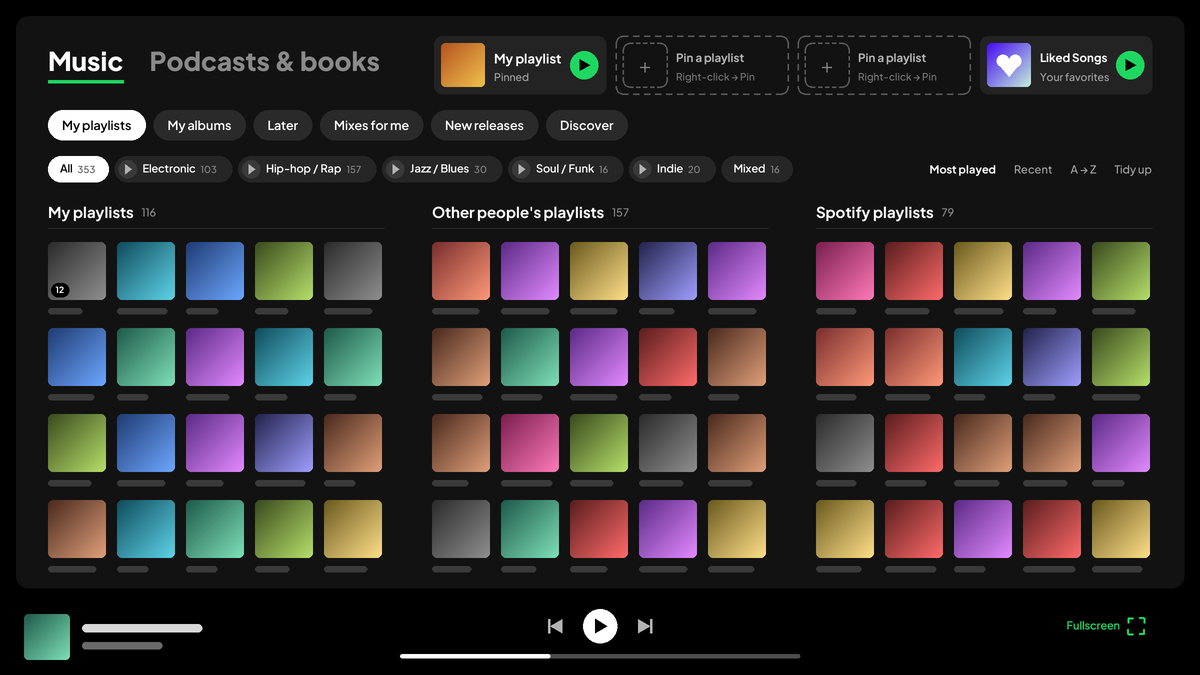
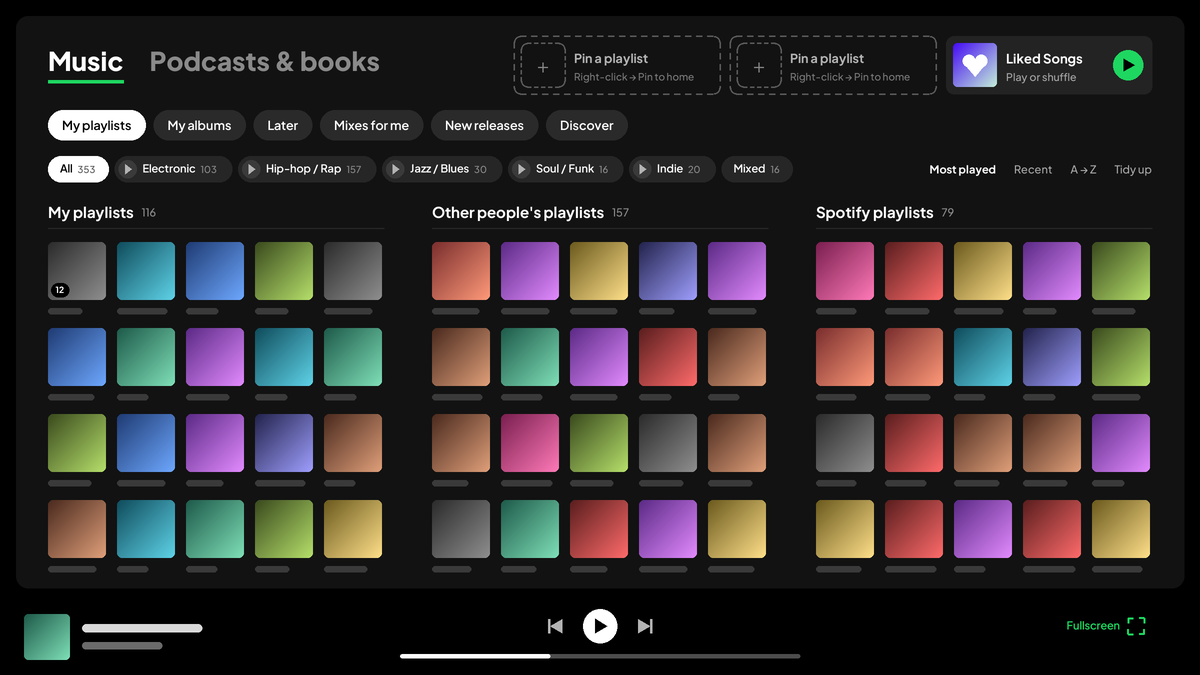
Épingles : 3 emplacements Titres likés compris (2 au choix)
L'onglet Musique a 3 emplacements en tout : Titres likés et 2 épingles
au choix. Une 3e épingle est refusée avec une notification. README et
aperçu (deux emplacements vides en pointillé, Titres likés) mis à jour.

Changed region(s): [[0.3392, 0.0622, 0.9558, 0.1556]]

diff --git a/spicetify/CustomApps/accueil/index.js b/spicetify/CustomApps/accueil/index.js
@@ -1379,7 +1379,8 @@ function PinHero({ item, reorder, drag }) {
     h("button", { className: "acc-round", title: tr("Lire"), onClick: (e) => { e.stopPropagation(); playPinned(item); } }, h(PlayIcon))));
 }
 
-const PIN_SLOTS = 3;
+// 3 emplacements en tout dans l'onglet Musique, Titres likés compris : 2 épingles au choix.
+const PIN_SLOTS = 2;
 
 // Emplacement libre : carte en pointillé qui explique comment épingler.
 function PinSlot() {
@@ -1392,7 +1393,7 @@ function PinSlot() {
 
 function PinnedHeroes({ main }) {
   const pinned = usePins();
-  // Musique : 3 emplacements au plus (Titres likés en plus) ; au-delà, seules les 3 premières.
+  // Musique : 2 épingles au plus à côté de Titres likés ; au-delà, seules les 2 premières.
   let kept = 0;
   const shown = (pinned || []).filter((i) => pinGroup(i) === main && (main !== "music" || i.type === "liked" || ++kept <= PIN_SLOTS));
   const [drag, setDrag] = useState(null); // { uri, target, side }
@@ -1413,7 +1414,7 @@ function PinnedHeroes({ main }) {
       setDrag(null);
     },
   };
-  // Musique : les places libres sur les 3 s'affichent en pointillé, pour montrer qu'on choisit ce qui va là.
+  // Musique : les places libres s'affichent en pointillé, pour montrer qu'on choisit ce qui va là.
   const free = main === "music" && pinned ? Math.max(0, PIN_SLOTS - shown.filter((i) => i.type !== "liked").length) : 0;
   const slots = Array.from({ length: free }, (_, k) => h(PinSlot, { key: "slot" + k }));
   const cards = shown.map((i) => (i.type === "liked" ? h(LikedHero, { key: i.uri, reorder, drag }) : h(PinHero, { key: i.uri, item: i, reorder, drag })));
@@ -1568,7 +1569,7 @@ header[data-testid="topbar"] { display: none !important; }
 .acc-slot-plus { width: 56px; height: 56px; flex: none; border-radius: 4px; display: grid; place-items: center; border: 1.5px dashed rgba(255,255,255,.22); font-size: 1.5rem; font-weight: 300; }
 .acc-slot .acc-liked-title { color: inherit; }
 .acc-pin-hint { display: flex; align-items: center; max-width: 320px; padding: 10px 14px; border: 1px dashed rgba(255,255,255,.2); border-radius: 8px; color: var(--acc-sub); font-size: .8125rem; }
-/* Une seule ligne, toujours : au plus 3 épingles + Titres likés, qui rétrécissent au besoin. */
+/* Une seule ligne, toujours : 3 cartes (2 épingles + Titres likés), qui rétrécissent au besoin. */
 .acc-heroes { display: flex; gap: 12px; flex-wrap: nowrap; justify-content: flex-end; flex: 1 1 auto; min-width: 0; }
 .acc-liked-art.is-season { background: linear-gradient(135deg, #b3541e, #f2c14e); overflow: hidden; }
 .acc-liked-art img { width: 100%; height: 100%; object-fit: cover; display: block; }

diff --git a/spicetify/Extensions/accueil-core.js b/spicetify/Extensions/accueil-core.js
@@ -21,7 +21,7 @@ const ACCUEIL_EN = {
   "Retirer de l'accueil": "Unpin from home",
   "Discographie complète": "Full discography",
   "Épinglé sur l'accueil": "Pinned to home",
-  "Accueil complet (3 épingles) : retire une épingle d'abord": "Home is full (3 pins): unpin one first",
+  "Accueil complet (3 emplacements, Titres likés compris) : retire une épingle d'abord": "Home is full (3 slots, Liked Songs included): unpin one first",
   "Ajouté à « Plus tard »": "Added to Later",
   "{n} éléments ajoutés à « Plus tard »": "{n} items added to Later",
   "Déjà dans « Plus tard »": "Already in Later",
@@ -401,9 +401,9 @@ function accueilT(fr, vars) {
     const list = readPins();
     if (list) writePins([current, ...list.filter((u) => u !== current && !previous.includes(u))]);
   }
-  // Onglet Musique : 3 emplacements au plus (Titres likés à part). Les épingles de podcasts (émissions,
-  // épisodes enregistrés) vont dans l'onglet Podcasts et ne comptent pas.
-  const PIN_SLOTS = 3;
+  // Onglet Musique : 3 emplacements, Titres likés compris, donc 2 épingles au choix. Les épingles de
+  // podcasts (émissions, épisodes enregistrés) vont dans l'onglet Podcasts et ne comptent pas.
+  const PIN_SLOTS = 2;
   async function pinUri(uri) {
     const list = readPins() || [];
     const podcast = (u) => /^spotify:(show|episode):/.test(u);
@@ -412,7 +412,7 @@ function accueilT(fr, vars) {
       try { episodes = (await Spicetify.Platform.LibraryAPI.getContents({ limit: 50 })).items.find((i) => i.type === "your-episodes")?.uri; } catch {}
       const music = list.filter((u) => u !== "accueil:liked" && u !== episodes && !podcast(u));
       if (music.length >= PIN_SLOTS) {
-        Spicetify.showNotification?.(accueilT("Accueil complet (3 épingles) : retire une épingle d'abord"), true);
+        Spicetify.showNotification?.(accueilT("Accueil complet (3 emplacements, Titres likés compris) : retire une épingle d'abord"), true);
         return;
       }
     }

diff --git a/README.fr.md b/README.fr.md
@@ -17,7 +17,7 @@ Pour **Spotify sur ordinateur, version téléchargée sur spotify.com** (pas cel
 - **Nombre d'écoutes** sur chaque playlist et chaque album, et tri « Plus écoutées ».
 - **Suggestions de rangement** (bouton « Ranger » de Mes playlists) : playlists dont les artistes relèvent surtout d'un autre dossier de style, playlists en vrac à la racine au style net, playlists pas écoutées depuis plus d'un an (quand Spotify connaît la date). Pour chacune : « Déplacer vers… » (ou « Archiver », dans un dossier `ARCHIVES`) et « Ignorer ». Rien ne bouge sans ton clic.
 - **Mes albums par date de sortie** : tris « Sortie ↓ » et « Sortie ↑ ».
-- **Tes 3 playlists préférées épinglées en haut** : des emplacements vides en pointillé montrent où elles vont. Clic droit sur une playlist, un album, un artiste, une émission ou un dossier → « Épingler sur l'accueil » (3 emplacements, toujours sur une ligne, à côté de Titres likés). Glisse une carte, Titres likés compris, pour changer l'ordre. Les titres likés sont toujours là, avec lecture ou aléatoire.
+- **3 emplacements en haut : Titres likés + 2 playlists au choix** : des emplacements vides en pointillé montrent où elles vont. Clic droit sur une playlist, un album, un artiste, une émission ou un dossier → « Épingler sur l'accueil » (3 emplacements, Titres likés compris, toujours sur une ligne). Glisse une carte, Titres likés compris, pour changer l'ordre. Les titres likés sont toujours là, avec lecture ou aléatoire.
 
 ### Lecture plein écran
 Le bouton plein écran de la barre du lecteur (ou ⤢ du panneau En cours de lecture) ouvre une vue plein écran : pochette en grand, contrôles, **paroles synchronisées** (clic sur une ligne pour s'y rendre) et liste **À suivre** (clic sur un titre pour y sauter). Échap pour fermer.

diff --git a/README.md b/README.md
@@ -24,7 +24,7 @@ For the **Spotify desktop app downloaded from spotify.com** (not the Microsoft S
 
   Each one gets a *Move to…* or *Archive* button (into an `ARCHIVES` folder), plus *Dismiss*. Nothing moves until you click.
 - **Albums by release date**: *Release ↓* and *Release ↑* sorts.
-- **Pin your 3 go-to playlists at the top**: empty dashed slots show where they go. Right-click a playlist, album, artist, show or folder → *Pin to home*. Three slots, always on one line, next to Liked Songs. Drag any card, Liked Songs included, to reorder them. Liked Songs is always there, with play or shuffle.
+- **3 slots at the top: Liked Songs + 2 playlists of your choice**. Empty dashed slots show where they go: right-click a playlist, album, artist, show or folder → *Pin to home*. Always on one line. Drag any card, Liked Songs included, to reorder them. Liked Songs is always there, with play or shuffle.
 
 ### Fullscreen playback
 The fullscreen button in the player bar (or ⤢ in the Now Playing panel) opens a fullscreen view:
